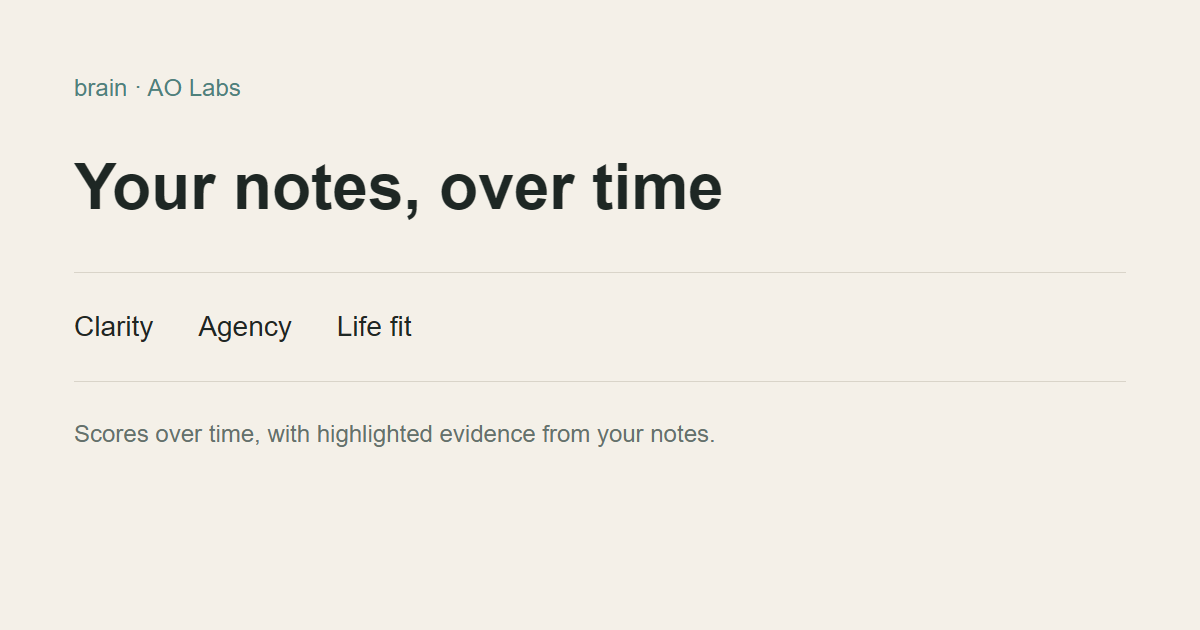
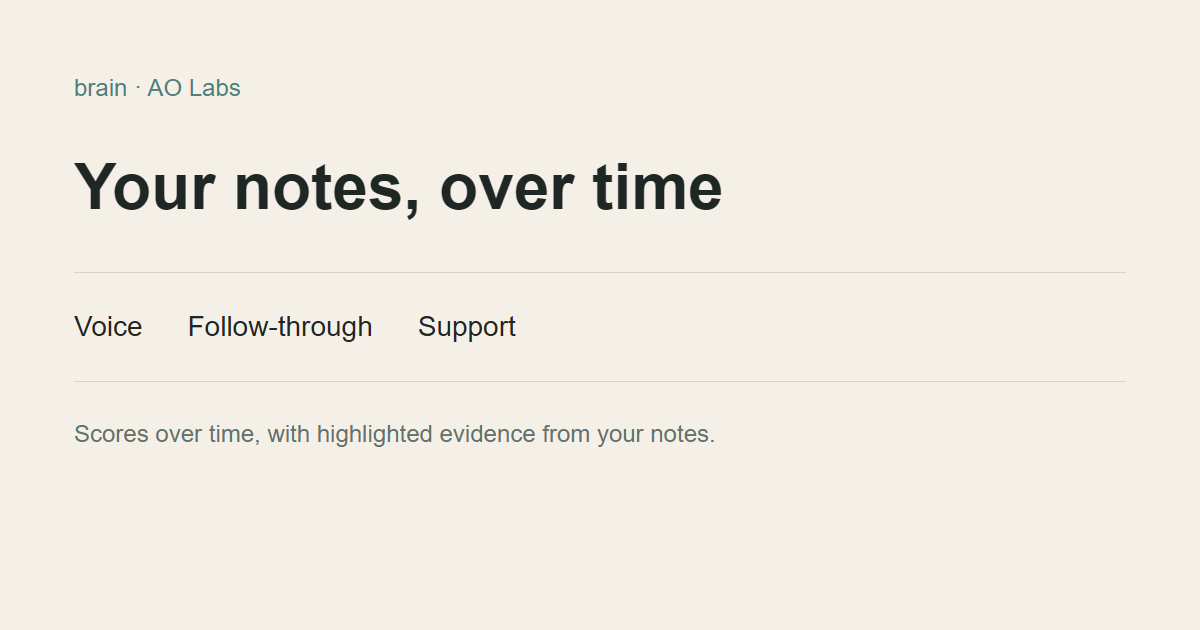
Publish approved Voice Follow-through and Support scores

Changed region(s): [[0.1542, 0.4825, 0.4317, 0.5429], [0.0617, 0.4825, 0.1233, 0.5429]]

diff --git a/brain/app.js b/brain/app.js
@@ -61,9 +61,9 @@ const notePreviewLayout = Object.freeze({
   leading: 16,
 });
 const traitHighlightStyle = Object.freeze({
-  clarity: { canvas: "#8f3d4b", pdf: "0.56 0.24 0.29 rg" },
-  agency: { canvas: "#214f8f", pdf: "0.13 0.31 0.56 rg" },
-  fit: { canvas: "#7a4a16", pdf: "0.48 0.29 0.09 rg" },
+  voice: { canvas: "#8f3d4b", pdf: "0.56 0.24 0.29 rg" },
+  followthrough: { canvas: "#214f8f", pdf: "0.13 0.31 0.56 rg" },
+  support: { canvas: "#7a4a16", pdf: "0.48 0.29 0.09 rg" },
   autism: { canvas: "#8f3d4b", pdf: "0.56 0.24 0.29 rg" },
   adhd: { canvas: "#214f8f", pdf: "0.13 0.31 0.56 rg" },
   text: { canvas: "#1e2724", pdf: "0.12 0.15 0.14 rg" },
@@ -429,9 +429,9 @@ function buildScoreHistoryPlot(rows) {
   title.className = "score-history-title";
   title.textContent = "score trends";
   const series = [
-    { key: "clarity", label: "clarity", colorClass: "autism-series", value: item => window.BrainScores.score(item,"clarity") },
-    { key: "agency", label: "agency", colorClass: "adhd-series", value: item => window.BrainScores.score(item,"agency") },
-    { key: "fit", label: "life fit", colorClass: "life-series", value: item => window.BrainScores.score(item,"fit") },
+    { key: "voice", label: "voice", colorClass: "autism-series", value: item => window.BrainScores.score(item,"voice") },
+    { key: "followthrough", label: "follow-through", colorClass: "adhd-series", value: item => window.BrainScores.score(item,"followthrough") },
+    { key: "support", label: "support", colorClass: "life-series", value: item => window.BrainScores.score(item,"support") },
   ].map((seriesItem) => {
     const observations = rows.map((item) => ({
       time: scoreHistoryTime(item),
@@ -442,7 +442,7 @@ function buildScoreHistoryPlot(rows) {
   const svg = document.createElementNS(namespace, "svg");
   svg.setAttribute("viewBox", "0 0 560 210");
   svg.setAttribute("role", "img");
-  svg.setAttribute("aria-label", `Clarity, agency and life fit scores over time for ${rows.length} distinct notes. Solid lines connect note scores; dashed lines show trends.`);
+  svg.setAttribute("aria-label", `Voice, Follow-through and Support scores over time for ${rows.length} distinct notes. Solid lines connect note scores; dashed lines show trends.`);
   svg.setAttribute("preserveAspectRatio", "none");
 
   const margin = { top: 16, right: 112, bottom: 28, left: 30 };
@@ -495,7 +495,7 @@ function buildScoreHistoryPlot(rows) {
     }
   }
 
-  const labelGap = 13;
+  const labelGap = 26;
   const labelBottom = margin.top + height - 4;
   let previousLabelY = margin.top + 5 - labelGap;
   const placedEndpointLabels = endpointLabels
@@ -507,7 +507,8 @@ function buildScoreHistoryPlot(rows) {
     });
   const overflow = Math.max(0, previousLabelY - labelBottom);
   for (const item of placedEndpointLabels) {
-    append("text", { x: margin.left + width + 7, y: item.labelY - overflow, class: `score-series-label ${item.seriesItem.colorClass}` }, formatScoreTrendEndpoint(item.seriesItem));
+    append("text", { x: margin.left + width + 7, y: item.labelY - overflow - 6, class: `score-series-label ${item.seriesItem.colorClass}` }, item.seriesItem.label);
+    append("text", { x: margin.left + width + 7, y: item.labelY - overflow + 6, class: `score-series-label ${item.seriesItem.colorClass}` }, formatScoreTrendEndpoint(item.seriesItem).slice(item.seriesItem.label.length).trim());
   }
 
   chart.append(title, svg);
@@ -1587,7 +1588,7 @@ function sourceRangeSegments(source, start, end, ranges) {
 }
 
 function normalizeTraitHighlights(input) {
-  return Object.fromEntries(['clarity','agency','fit'].map(key => [key, String(input?.[key] || '')]));
+  return Object.fromEntries(['voice','followthrough','support'].map(key => [key, String(input?.[key] || '')]));
 }
 
 function traitFlavorRanges(text, highlights) {
@@ -1635,7 +1636,7 @@ function autismFlavorRanges(text, highlightText = "") {
     { pattern: /\b(?:overwhelm|overwhelmed|overwhelming|panic|shutdown|meltdown|spiral|body stops feeling alert|body feel(?:s)? unsafe)\b/gi, weight: 106 },
     { pattern: /\b(?:sensory|metal box|fluorescent|sound|noise|comfort|comfortable|safe|safety|body|bumpy|smooth|quiet|texture|light|smell)\b/gi, weight: 104 },
     { pattern: /\b(?:routine|routines|transition|transitions|switching|same|stable|change|changes|back and forth|commitment|commit)\b/gi, weight: 100 },
-    { pattern: /\b(?:masking|mask|camouflage|appear normal|fit in|hide|compensate)\b/gi, weight: 98 },
+    { pattern: /\b(?:masking|mask|camouflage|appear normal|support in|hide|compensate)\b/gi, weight: 98 },
     { pattern: /\b(?:social cues|eye contact|text back|respond|relationship|conversation|tone|misread|blunt|block me|love me|social)\b/gi, weight: 96 },
     { pattern: /\b(?:special interest|fixed preference|focused interest|fixated|exact|details|rules|patterns|categories|system)\b/gi, weight: 94 },
     { pattern: /\b(?:autism|autistic|asd|diagnosis|diagnostic evaluation)\b/gi, weight: 78 },
@@ -2718,7 +2719,7 @@ function scoreBasisTemplates(trait, level, subject) {
   }
   if (level === "high") {
     return [
-      `${subject.cap} ${subject.verb} the same need for fit, certainty, sensory safety, or social clarity in the body of the note.`,
+      `${subject.cap} ${subject.verb} the same need for support, certainty, sensory safety, or social voice in the body of the note.`,
       `The autism read gets stronger because the note keeps returning to ${subject.text}.`,
       `That makes the highlighted line feel representative: ${subject.text} ${subject.points} to repeated rigidity, certainty, sensory, or social-meaning pressure.`,
       `${subject.cap} ${subject.verb} the pattern spreading beyond one sentence into how the whole situation is being sorted.`,
@@ -2728,15 +2729,15 @@ function scoreBasisTemplates(trait, level, subject) {
     return [
       `${subject.cap} ${subject.verb} a real autism-shaped clue, while the rest of the thought is mixed.`,
       `The autism read stays moderate because ${subject.text} ${subject.points} in the same direction without carrying the whole note.`,
-      `${subject.cap} ${subject.verb} concrete fit, certainty, sensory, or social strain, but it is not the only thing happening.`,
+      `${subject.cap} ${subject.verb} concrete support, certainty, sensory, or social strain, but it is not the only thing happening.`,
       `The autism clue is believable because it sits beside ${subject.text}.`,
     ];
   }
   return [
     `${subject.cap} ${subject.verb} a small autism-shaped clue, but the note is mostly doing something else.`,
-    `The autism read stays lighter because ${subject.text} ${subject.points} to some fit, certainty, sensory, or social strain without becoming the main pattern.`,
+    `The autism read stays lighter because ${subject.text} ${subject.points} to some support, certainty, sensory, or social strain without becoming the main pattern.`,
     `${subject.cap} ${subject.verb} real friction, but it stays secondary.`,
-    `This is not zero because ${subject.text} ${subject.verb} some fit or certainty pressure; it is just not the center of the note.`,
+    `This is not zero because ${subject.text} ${subject.verb} some support or certainty pressure; it is just not the center of the note.`,
   ];
 }
 
@@ -2774,15 +2775,15 @@ function scoreFallbackBasisSentence(trait, score, seed = "") {
       }
       : {
         high: [
-          "The autism read is high only when certainty, sensory, social, routine, or exact-fit pressure repeats across the note.",
+          "The autism read is high only when certainty, sensory, social, routine, or exact-support pressure repeats across the note.",
           "This sits high for autism because the card is looking for a repeated pattern, not one dramatic sentence.",
         ],
         middle: [
           "The autism read stays in the middle when the clue is real but the note is not carried by autism-shaped pressure alone.",
-          "This is a middle autism read: the fit, certainty, sensory, or social clue is present but mixed with other material.",
+          "This is a middle autism read: the support, certainty, sensory, or social clue is present but mixed with other material.",
         ],
         low: [
-          "The autism read stays light when the entry gives only a small fit, certainty, sensory, or social clue.",
+          "The autism read stays light when the entry gives only a small support, certainty, sensory, or social clue.",
           "This is low-signal for autism, not zero; the note just does not give a strong whole-note pattern.",
         ],
       };
@@ -2812,7 +2813,7 @@ function scoreBasisThemes(options = {}, trait = "autism") {
     add("social nonresponse", /\b(group chat|nobody responded|unheard|invalidated)\b/);
     add("withdrawal from mismatch", /\b(leave environments|environment|mismatch|reciprocity|lack of reciprocity)\b/);
     add("feeling socially minimized", /\b(small and unimpressive|minimized|judged|unheard)\b/);
-    add("certainty or exact-fit pressure", /\b(certainty|exact|predictable|routine|same|stable|rule)\b/);
+    add("certainty or exact-support pressure", /\b(certainty|exact|predictable|routine|same|stable|rule)\b/);
     add("sensory or overwhelm load", /\b(sensory|overwhelm|comfortable|safe)\b/);
   }
   return themes.slice(0, 3);
@@ -3240,7 +3241,7 @@ function highlightExplanationForPhrase(value) {
   if (/\broutine|transition|switch|same|stable|change|back and forth|commit\b/.test(text)) {
     return "It shows switching and change carrying a heavier cost than the surface situation suggests.";
   }
-  if (/\bmask|camouflage|normal|fit in|hide|compensate\b/.test(text)) {
+  if (/\bmask|camouflage|normal|support in|hide|compensate\b/.test(text)) {
     return "It shows the social self-monitoring and masking layer that often makes autistic experience harder to see from outside.";
   }
   if (/\bsocial|conversation|relationship|tone|misread|block|love|respond\b/.test(text)) {
@@ -3755,7 +3756,7 @@ function anchorScore(value) {
     /\boverwhelm|panic|shutdown|meltdown|stress|anxiety|hard to handle|too much\b/,
     /\bfocus|fixed|interest|exact|details|pattern|rule|category|audi|car\b/,
     /\btask|start|finish|setup steps|getting started|lost momentum|motivation|deadline|schedule|forget|time\b/,
-    /\bmask|normal|fit in|hide|compensat|camouflag\b/,
+    /\bmask|normal|support in|hide|compensat|camouflag\b/,
     /\badhd|executive function|attention|hyperfocus\b/,
     /\bautis|asd|diagnos|evaluation|assessment\b/,
   ];

diff --git a/brain/index.html b/brain/index.html
@@ -4,7 +4,7 @@
   <meta charset="utf-8" />
   <meta name="viewport" content="width=device-width, initial-scale=1" />
   <title>brain.aolabs.io</title>
-  <meta name="description" content="Brain PDF bank with clarity, agency, and life fit scores." />
+  <meta name="description" content="Brain PDF bank with Voice, Follow-through, and Support scores." />
   <link rel="canonical" href="https://aolabs.io/brain/">
   <meta property="og:type" content="website">
   <meta property="og:site_name" content="AO Labs">
@@ -24,11 +24,11 @@
   <meta name="twitter:image:alt" content="brain preview card.">
 <link rel="icon" href="./favicon.svg?v=20260612-hub-mark" type="image/svg+xml">
   <link rel="stylesheet" href="https://aolabs.io/suite-header.css?v=20260516-suite-bloom">
-  <link rel="stylesheet" href="./styles.css?v=20261019-score-v1">
-  <script src="./config.js?v=20261019-score-v1"></script>
-  <script src="./app.js?v=20261019-score-v1" defer></script>
-  <link rel="stylesheet" href="./scores.css?v=20261019-score-v1">
-  <script src="./scores.js?v=20261019-score-v1" defer></script>
+  <link rel="stylesheet" href="./styles.css?v=20261019-voice-v1">
+  <script src="./config.js?v=20261019-voice-v1"></script>
+  <script src="./app.js?v=20261019-voice-v1" defer></script>
+  <link rel="stylesheet" href="./scores.css?v=20261019-voice-v1">
+  <script src="./scores.js?v=20261019-voice-v1" defer></script>
 </head>
 <body>
   <header class="suite-topbar" aria-label="brain navigation">
@@ -46,16 +46,16 @@
   <main class="shell document-shell">
     <section class="document-intro" aria-label="document summary">
       <p>Brain PDF bank for documents, text, files, images, and goal-relevant thoughts.</p>
-      <div id="score-clarity" class="overall-score" aria-live="polite">
-        <span>clarity</span>
+      <div id="score-voice" class="overall-score" aria-live="polite">
+        <span>voice</span>
         <strong>loading</strong>
       </div>
-      <div id="score-agency" class="overall-score" aria-live="polite">
-        <span>agency</span>
+      <div id="score-followthrough" class="overall-score" aria-live="polite">
+        <span>follow-through</span>
         <strong>loading</strong>
       </div>
-      <div id="score-fit" class="overall-score life-overall" aria-live="polite">
-        <span>life fit</span>
+      <div id="score-support" class="overall-score life-overall" aria-live="polite">
+        <span>support</span>
         <strong>loading</strong>
       </div>
     </section>

diff --git a/brain/scores.js b/brain/scores.js
@@ -1,5 +1,5 @@
 (() => {
-  const base=window.BRAIN_API_BASE.replace(/\/$/,''), metrics=[{key:'clarity',label:'Clarity',cls:'autism'},{key:'agency',label:'Agency',cls:'adhd'},{key:'fit',label:'Life fit',cls:'life'}];
+  const base=window.BRAIN_API_BASE.replace(/\/$/,''), metrics=[{key:'voice',label:'Voice',cls:'autism'},{key:'followthrough',label:'Follow-through',cls:'adhd'},{key:'support',label:'Support',cls:'life'}];
   let entries={}; const busy=new Set(), errors=new Map(), previews=new Map();
   const node=(tag,text,cls)=>{const n=document.createElement(tag);if(text!==undefined)n.textContent=text;if(cls)n.className=cls;return n;};
   const dateOf=item=>Date.parse(item.sourceCreatedAt||item.createdAt||0);
@@ -17,7 +17,7 @@
     summary.append(node('p','AI readings of each note. Trends reflect the notes recorded, not a clinical assessment.','score-basis'));
     if(typeof renderVault==='function')renderVault();
   }
-  async function load(){try{const response=await fetch(base+'/api/note-scores',{cache:'no-store'});if(!response.ok)throw Error('Scores could not load.');entries=(await response.json()).entries;refresh();}catch(e){document.getElementById('score-summary').textContent=e.message;}}
+  async function load(){try{const response=await fetch(base+'/api/note-scores',{cache:'no-store'});if(!response.ok)throw Error('Scores could not load.');entries=Object.fromEntries(Object.entries((await response.json()).entries).filter(([,entry])=>metrics.every(m=>entry.values?.[m.key])));refresh();}catch(e){document.getElementById('score-summary').textContent=e.message;}}
   async function analyze(item){if(busy.has(item.id))return;busy.add(item.id);errors.delete(item.id);renderVault();try{const r=await fetch(base+'/api/note-scores/analyze',{method:'POST',headers:{'Content-Type':'application/json'},body:JSON.stringify({sourceId:item.id})});const result=await r.json();if(!r.ok)throw Error(result.error||'Could not score this note.');entries[item.id]=result.entry;refresh();}catch(e){errors.set(item.id,e.message);}finally{busy.delete(item.id);renderVault();}}
   window.BrainScores={
     refresh,analyze,

diff --git a/brain/scores.css b/brain/scores.css
@@ -1,8 +1,8 @@
 /* Original layout and plotting geometry are preserved. Only score evidence styling is added. */
 .score-excerpt mark { padding:0;background:transparent;font-weight:800; }
-.score-excerpt mark.clarity { color:#8f3d4b; }
-.score-excerpt mark.agency { color:#214f8f; }
-.score-excerpt mark.fit { color:#7a4a16; }
+.score-excerpt mark.voice { color:#8f3d4b; }
+.score-excerpt mark.followthrough { color:#214f8f; }
+.score-excerpt mark.support { color:#7a4a16; }
 .score-basis { color:var(--muted)!important;font-size:11px!important; }
 .note-full { white-space:pre-wrap;max-height:400px;overflow:auto;font-size:13px;line-height:1.4; }
 .vault-main details { font-size:12px;overflow-wrap:anywhere; }

diff --git a/index.html b/index.html
@@ -555,7 +555,7 @@
             </div>
             <span class="app-icon" aria-hidden="true"><img src="/icons/brain.svg?v=20260611-transparent-mark" alt=""></span>
           </div>
-          <p class="desc">notes with highlighted evidence, clarity, agency, and life fit scores.</p>
+          <p class="desc">notes with highlighted evidence, voice, follow-through, and support scores.</p>
         </div>
         <div class="card-foot"><span class="url">aolabs.io/brain</span></div>
       </a>
@@ -945,5 +945,6 @@
   </main>
 </body>
 </html>
+
 
 
